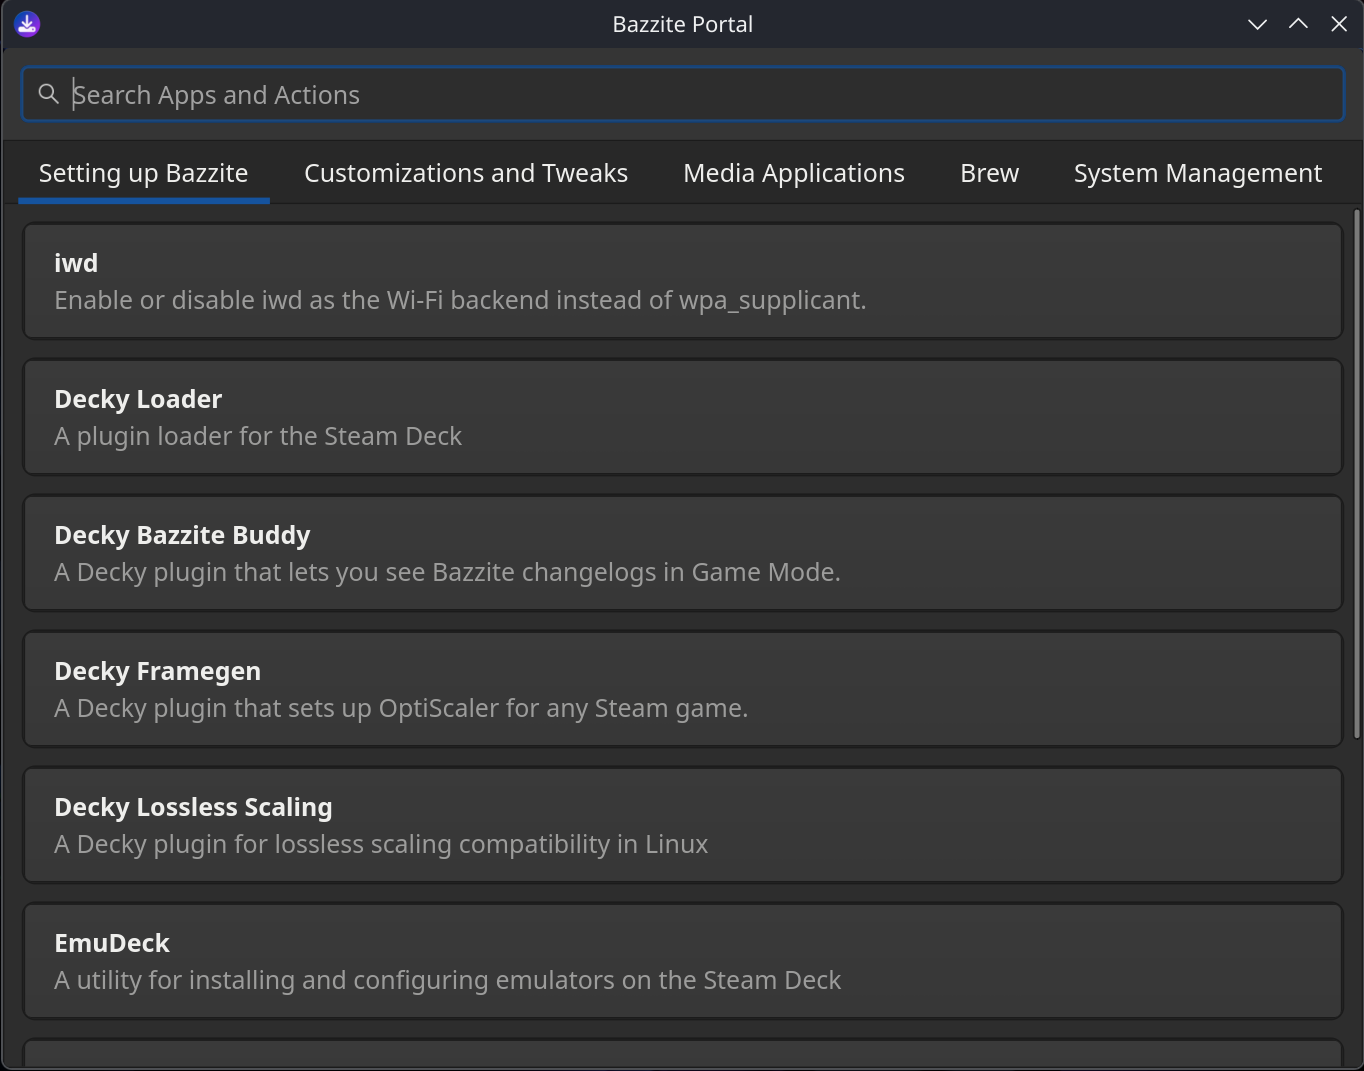
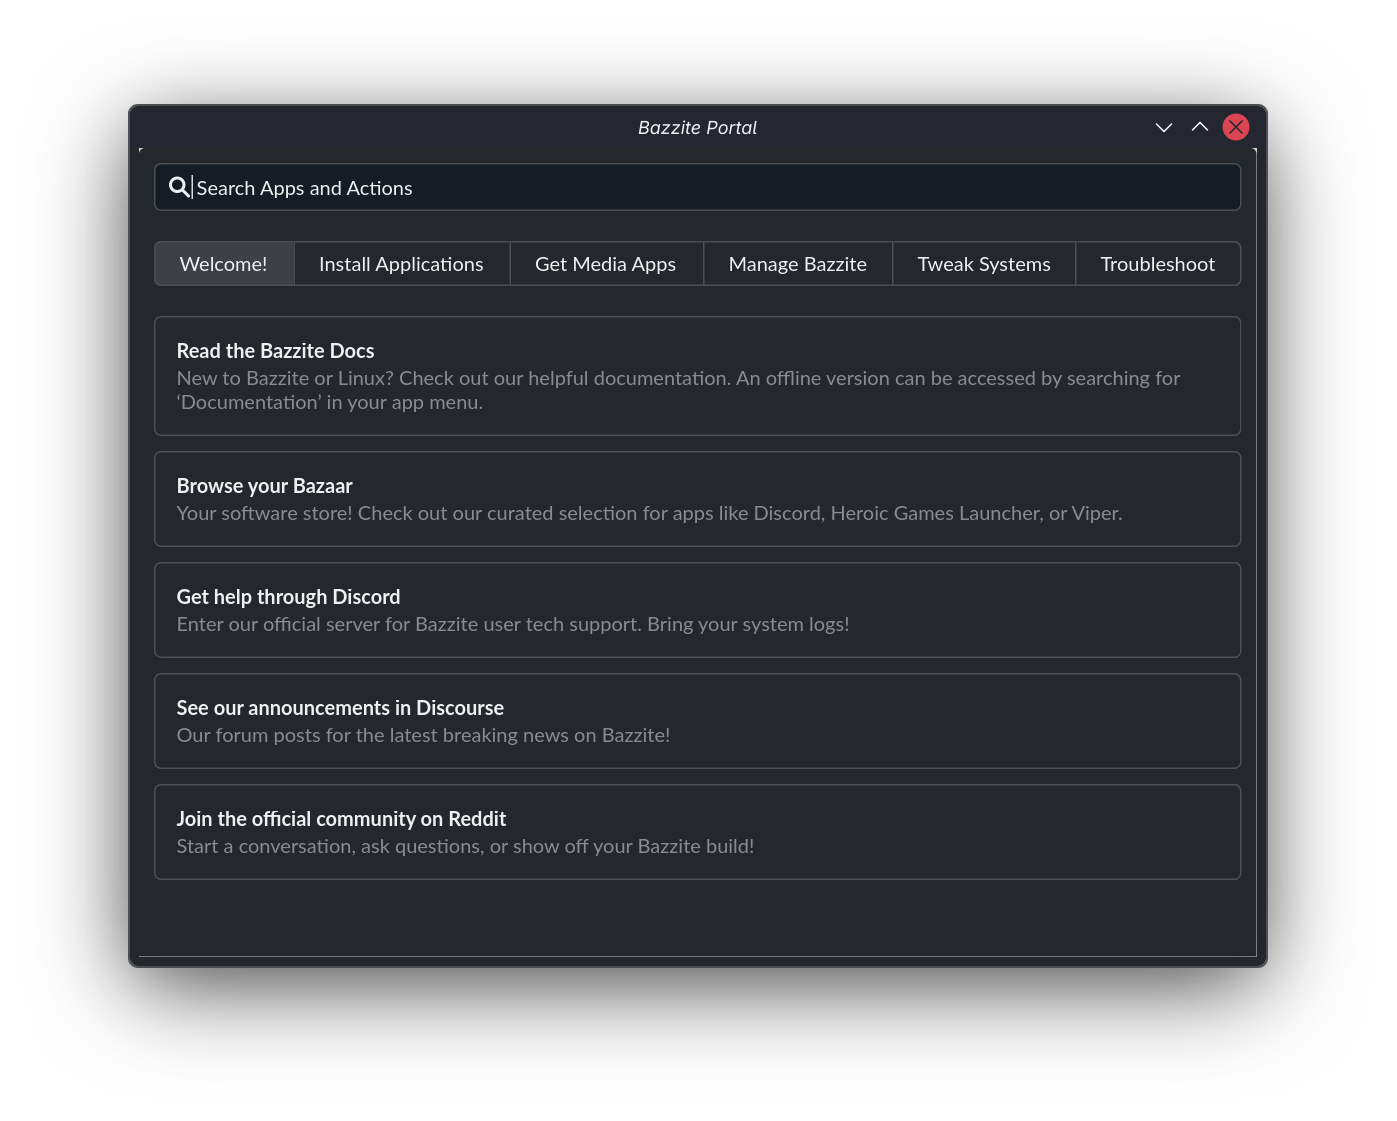
docs(bazzite-portal): update & make list non exhaustive

diff --git a/src/Installing_and_Managing_Software/Bazzite_Portal.md b/src/Installing_and_Managing_Software/Bazzite_Portal.md
@@ -38,47 +38,41 @@ The Bazzite Portal is installed by default. To launch the app:
 
 The Bazzite Portal's features are organized into categories:
 
-![Screenshot of the Bazzite Portal's categories|1358x208, 50%](../img/Bazzite_Portal_Categories.png)
+![Screenshot of the Bazzite Portal's categories|1700x346, 50%](../img/Bazzite_Portal_Categories.png)
 
-### Setting up Bazzite
+Below are a list of non-exhaustive previews, containing select entries of each category.
 
-This category installs various apps (such as [Decky Loader](https://github.com/SteamDeckHomebrew/decky-loader)) and integrates them with Steam, where supported.
+<hr>
 
-| Feature                    | Description                                                                                                                             | `ujust` command              |
-| :------------------------- | :-------------------------------------------------------------------------------------------------------------------------------------- | :--------------------------- |
-| **iwd**                    | Switches the Wi-Fi backend between `iwd` and `wpa_supplicant`. The `iwd` backend can improve network performance in some circumstances. | `toggle-iwd`                 |
-| **Decky Loader**           | Installs the Decky plugin loader.                                                                                                       | `setup-decky`                |
-| **Decky Bazzite Buddy**    | Shows the latest Bazzite changelogs in Decky.                                                                                           | `get-decky-bazzite-buddy`    |
-| **Decky Framegen**         | Adds OptiScaler to a Steam game.                                                                                                        | `get-framegen`               |
-| **Decky Lossless Scaling** | Adds compatibility for lossless scaling.                                                                                                | `get-decky-lossless-scaling` |
-| **EmuDeck**                | Installs emulators and adds them to Steam.                                                                                              | `get-emudeck`                |
-| **Sunshine**               | Installs a self-hosted game streaming service, letting you play games remotely using a Moonlight client.                                | `setup-sunshine`             |
-| **Waydroid**               | Installs a compatibility layer for Android apps.                                                                                        | `configure-waydroid`         |
-| **OpenRGB**                | Control your device's RGB lighting.                                                                                                     | `install-openrgb`            |
-| **Resilio Sync**           | Installs a file synchronization tool that uses peer-to-peer networking.                                                                 | `install-resilio-sync`       |
+### Welcome!
 
-### Customizations and tweaks
+This category provides essential resources, community links, and documentation to help new users get started with Bazzite.
 
-This category contains settings to suit personal preferences or specific hardware.
+| Feature | Description | Script Command |
+| :--- | :--- | :--- |
+| **Read the Bazzite Docs** | Opens the official online Bazzite documentation. | `xdg-open https://docs.bazzite.gg/` |
+| **Browse your Bazaar** | Opens instructions and launches the Bazaar software store. | Custom script launching Bazaar |
+| **Get help through Discord** | Opens the official Bazzite Discord server for technical support. | `xdg-open https://discord.gg/JQq48bYzrc` |
+| **See our announcements in Discourse** | Links to Discourse forum announcements for breaking Bazzite news. | `xdg-open https://universal-blue.discourse.group/tags/c/bazzite/announcements/` |
+| **Join the official community on Reddit** | Opens the official Bazzite subreddit. | `xdg-open https://www.reddit.com/r/Bazzite/` |
 
-| Feature                             | Description                                                                                                                                                                                                 | `ujust` command            |
-| :---------------------------------- | :---------------------------------------------------------------------------------------------------------------------------------------------------------------------------------------------------------- | :------------------------- |
-| **Add input group to current user** | Runs a script that adds your user account to the `input` group. This is needed for compatibility with certain controller drivers.                                                                              | `add-user-to-input-group`  |
-| **Visible Password Asterisks**      | Toggles password asterisks for `sudo` prompts.                                                                                                                                                              | `toggle-password-feedback` |
-| **GRUB Menu Visibility**            | Hide or show the GRUB menu during the boot process.                                                                                                                                                         | `configure-grub`           |
-| **Boot to Windows from Steam**      | If you're dual-booting with Windows, this adds a Steam menu item that lets you reboot into Windows.                                                                                                         | `setup-boot-windows-steam` |
-| **Automounting**                    | Configure automounting of `BTRFS` and `EXT4` partitions under `/run/media/system`                                                                                                                           | `toggle-automounting`      |
-| **SteamOS Automounting**            | Enables or disables file system automounting for SteamOS.                                                                                                                                                   | `enable-steamos-automount` |
-| **Wake-on-LAN**                     | Enables Wake-on-LAN support for remotely powering on your device.                                                                                                                                              | `toggle-wol`               |
-| **CEC Sleep Standby**               | Automatically puts your TV on standby when system sleeps. Uses HDMI-CEC and requires compatible hardware.                                                                                                   | `toggle-cec-sleep`         |
-| **Clean Steam Shortcuts**           | Automatically deletes any Steam shortcuts from your desktop whenever you reboot.                                                                                                                            | `steam-icons`              |
-| **OpenTabletDriver**                | An open source tablet driver.                                                                                                                                                                               | `install-opentabletdriver` |
-| **SSH Service**                     | Enables remote SSH access to your system.                                                                                                                                                                   | `toggle-ssh`               |
-| **SteamCMD**                        | A command-line client for Steam that lets you install dedicated servers.                                                                                                                                    | `get-steamcmd`             |
-| **Global FSR4 Upgrade (RDNA4)**     | Enables Proton FSR4 for RDNA4 GPUs. Also upgrades FSR 3.1+ to FSR 4 on Proton 10 (and Proton GE 10-25 or newer).                                                                                            | `toggle-global-fsr4`       |
-| **Global FSR4 Upgrade (RDNA3)**     | Enables Proton FSR4 for RDNA3 GPUs, such as the RX 7900 XTX. Also upgrades FSR 3.1+ to FSR 4. Only compatible with Proton GE, Proton EM, or similar.                                      | `toggle-global-fsr4-rdna3` |
-| **Global DLSS Upgrade**             | Enables the Proton DLSS upgrade, which updates DLSS DLLs. Only compatible with Proton GE, Proton EM, or similar.                                                                                     | `toggle-global-dlss`       |
-| **REISUB**                          | Enables all the [`magic SysRq key`](https://fedoraproject.org/wiki/QA/Sysrq) functions, using `kernel.sysrq = 1`. **Note:** This setting is considered insecure. | `toggle-reisub`            |
+<hr>
+
+### Install Applications
+
+This category offers software packages, development toolchains, gaming plugins, and hardware management utilities that can be installed using Homebrew, Distrobox, or native scripts.
+
+| Feature | Description | `ujust` Command |
+| :--- | :--- | :--- |
+| **Android Platform Tools** | Command-line tools for interfacing with the Android OS (via Brew). | Brew cask script |
+| **Antigravity** | AI-powered IDE from Google (via Brew). | Brew cask script |
+| **asusctl & ROG Control Center** | Utilities for management of ASUS hardware. | `asus` |
+| ... | ... | ... |
+| **Visual Studio Code** | Open source code editor and debugger from Microsoft (via Brew). | Brew cask script |
+| **VSCodium** | Open source community edition of Visual Studio Code (via Brew). | Brew cask script |
+| **Waydroid** | Android container compatibility layer for Linux. | `configure-waydroid` |
+
+<hr>
 
 ### Media Applications
 
@@ -88,26 +82,59 @@ This integration lets you run the web app directly from your Steam library. For 
 
 ![Screenshot of the Spotify web app in the Steam Library|460x243, 70%](../img/Steam_Library_spotify.png)
 
-### Brew
+<hr>
 
-This category lets you install Homebrew apps from the [Universal Blue tap](https://github.com/ublue-os/homebrew-tap).
-
-| Feature                                          | Description                                                | Brew component             |
-| ------------------------------------------------ | ---------------------------------------------------------- | -------------------------- |
-| **Add the Ublue tap**                            | Adds the Universal Blue Brew tap.                          | `ublue-os/tap`             |
-| **Install Visual Studio Code (Needs Ublue Tap)** | Installs the Visual Studio Code editor.                    | `visual-studio-code-linux` |
-| **Install Antigravity (Needs Ublue Tap)**        | Installs Google Gravity, an IDE for an AI Coding Agent.    | `antigravity-linux`        |
-| **Install LM Studio (Needs Ublue Tap)**          | Installs LM Studio, letting you run LLMs on your computer. | `lm-studio-linux`          |
-| **Install JetBrains Toolbox (Needs Ublue Tap)**  | Installs JetBrains Toolbox.                                | `jetbrains-toolbox-linux`  |
-| **Install VSCodium (Needs Ublue Tap)**           | Installs the VSCodium editor.                              | `vscodium-linux`           |
-
-### Systems Management
+### Manage Bazzite
 
 This category lets you update your system and do advanced troubleshooting. You can gather system logs, rollback system updates, reset Bazzite to its default configuration, or rebase your system to a different version.
 
 - **Update Bazzite and Apps**: See the [Update Guide](Updates_Rollbacks_and_Rebasing/updating_guide.md).
 - **Rebase Bazzite** (_stable_ and _testing_): See the [Rebase Guide](Updates_Rollbacks_and_Rebasing/rebase_guide.md).
 - **Rollback Bazzite**: See [Rollbacks](Updates_Rollbacks_and_Rebasing/rolling_back_system_updates.md) and [Bazzite Rollback Helper](Updates_Rollbacks_and_Rebasing/bazzite_rollback_helper.md).
+
+| Feature | Description | `ujust` / Script Command |
+| :--- | :--- | :--- |
+| **Update your system** | Update Bazzite, Flatpak apps, and system components. | `update` |
+| **Move to stable track** | Rebase system to the `stable` Bazzite image tag. | `brh rebase stable -y && reboot` |
+| **Move to testing track** | Rebase system to the `testing` Bazzite image tag. | `brh rebase testing -y && reboot` |
+| ... | ... | ... |
+| **Manage GRUB menu visibility** | Configure GRUB visibility during system boot sequence. | `configure-grub` |
+| **Configure GRUB timeout** | Set waiting period before GRUB boots default entry. | `grub-timeout` |
+| **Reboot to UEFI** | Reboot directly into UEFI firmware settings. | `systemctl reboot --firmware-setup` |
+
+<hr>
+
+### Tweak Systems
+
+This category provides system tweaks, including user permissions, disk automounting, snapshot management, audio routing, and GPU upscaling toggles.
+
+| Feature | Description | `ujust` Command |
+| :--- | :--- | :--- |
+| **Add «input» group** | Add user account to `input` group for controller driver compatibility. | `add-user-to-input-group` |
+| **Boot to Windows from Steam** | Add shortcut in Steam for automated dual-boot into Windows. | `setup-boot-windows-steam` |
+| **Clean Steam icons** | Enable auto-cleanup of desktop icons generated by Steam. | `steam-icons` |
+| ... | ... | ... |
+| **Automounting** | Manage automounting of labeled `BTRFS` and `EXT4` partitions under `/run/media/system`. | `automounting` |
+| **Toggle Input Remapper** | Manage Input Remapper and GUI launcher visibility. | `restore-input-remapper` |
+| **SteamOS Automounting** | Enable or disable file system automounting rules from SteamOS. | `steamos-automount` |
+
+<hr>
+
+### Troubleshoot
+
+This category offers diagnostic and recovery utilities designed to resolve common problems.
+
+| Feature | Description | `ujust` / Script Command |
+| :--- | :--- | :--- |
+| **Collect system logs** | Gather system records and hardware info into a shareable report. | `get-logs` |
+| **Rollback Bazzite** | Revert system to previous image deployment. | `brh rollback -y && reboot` |
+| **Save kernel panics** | Toggle `ramoops` panic logger to keep crash logs across reboots. | `toggle-save-panics` |
+| ... | ... | ... |
+| **Run benchmark** | Run 1-minute processor performance assessment. | `benchmark` |
+| **Enable REISUB** | Toggle SysRq shortcut key for safer forced reboots. | `reisub` |
+| **Regenerate GRUB config** | Regenerate GRUB configuration and probe for dual-boot OS installations. | `regenerate-grub` |
+
+<hr>
 
 ## How the Bazzite Portal works
 
@@ -135,7 +162,7 @@ For example, this entry shows the `ujust` commands used by the `iwd` setting:
 
 This configuration generates menu options in Bazzite Portal that let you enable or disable `iwd`:
 
-![Screenshot of the Bazzite Portal iwd options|711x456, 50%](../img/Bazzite_Portal_iwd.png)
+![Screenshot of the Bazzite Portal iwd options|909x639, 75%](../img/Bazzite_Portal_iwd.png)
 
 !!! tip "Want to know more?"
 
@@ -143,4 +170,4 @@ This configuration generates menu options in Bazzite Portal that let you enable 
 
 ## Project website
 
-https://github.com/xXJSONDeruloXx/yafti-gtk
+https://github.com/ublue-os/yafti-gtk/